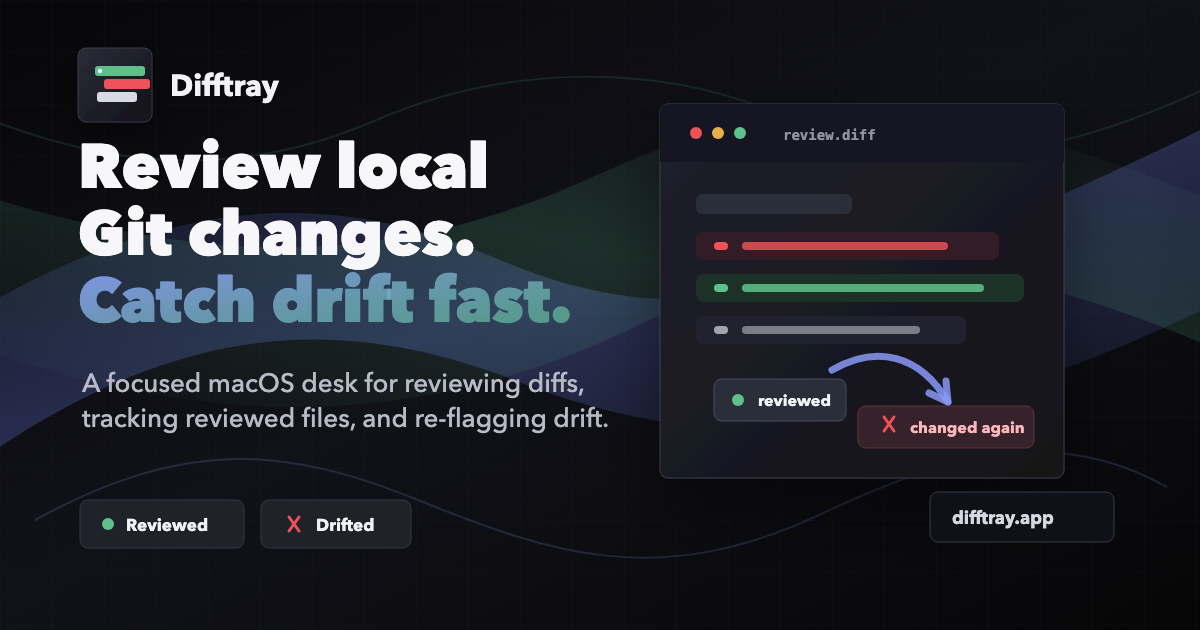
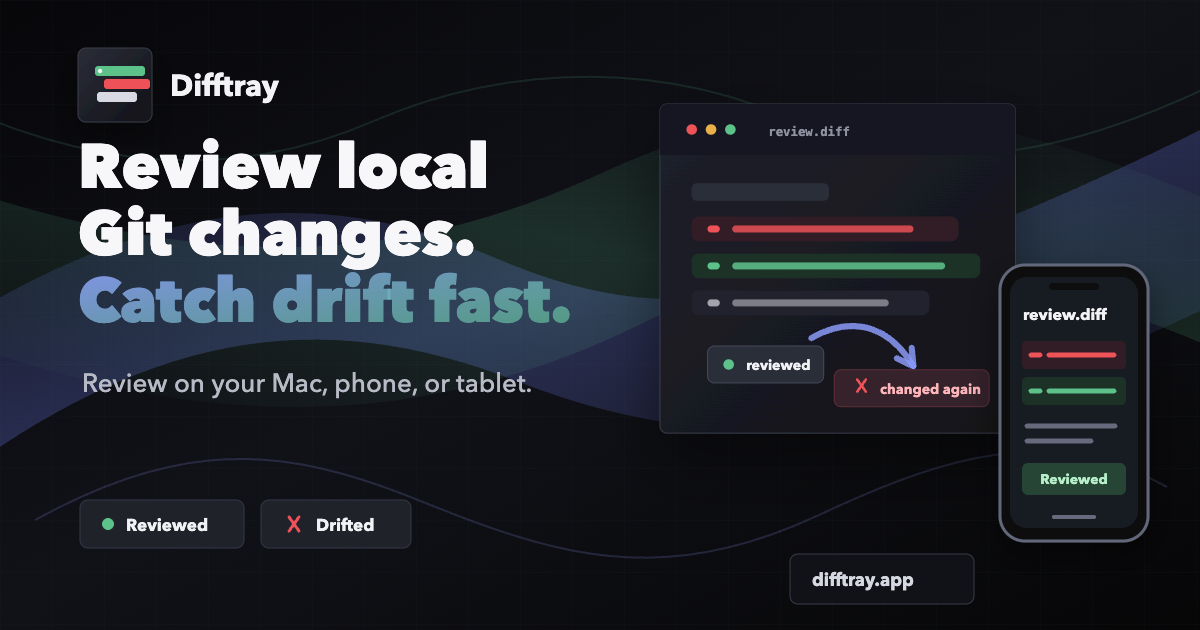
Update website messaging and social preview for mobile review

diff --git a/site/index.html b/site/index.html
@@ -3,8 +3,8 @@
 <head>
 <meta charset="UTF-8">
 <meta name="viewport" content="width=device-width, initial-scale=1.0">
-<title>Difftray — Local-first Git review for macOS</title>
-<meta name="description" content="Local-first macOS app for reviewing Git changes. Track what you reviewed, get re-flagged on drift, and carry the review to your phone with the companion app.">
+<title>Difftray — Code review on Mac, iOS &amp; Android</title>
+<meta name="description" content="Review local Git changes on your Mac, iPhone, iPad, or Android device. Track reviewed files, catch drift, and send review notes back to your agent.">
 <link rel="canonical" href="https://difftray.app/">
 
 <!-- Favicons (relative paths — work on github.io/<repo>/ project pages and custom domains alike) -->
@@ -19,18 +19,18 @@
 <meta property="og:type" content="website">
 <meta property="og:site_name" content="Difftray">
 <meta property="og:locale" content="en_US">
-<meta property="og:title" content="Difftray — Local-first Git review for macOS">
-<meta property="og:description" content="Know what you reviewed. Get re-flagged when a diff drifts. A focused review desk for local Git changes — with a mobile companion for your phone.">
+<meta property="og:title" content="Difftray — Code review on Mac, iOS &amp; Android">
+<meta property="og:description" content="Review on your Mac or paired mobile device. Track reviewed files, catch drift, and turn comments into a prompt for your agent.">
 <meta property="og:url" content="https://difftray.app/">
-<meta property="og:image" content="https://difftray.app/assets/social-card.png">
+<meta property="og:image" content="https://difftray.app/assets/social-card.png?v=mac-mobile-1">
 <meta property="og:image:width" content="1200">
 <meta property="og:image:height" content="630">
-<meta property="og:image:alt" content="Difftray: review local Git changes and catch drift fast.">
+<meta property="og:image:alt" content="Difftray: review local Git changes on Mac, iOS, and Android. Catch drift fast.">
 <meta name="twitter:card" content="summary_large_image">
-<meta name="twitter:title" content="Difftray — Local-first Git review for macOS">
-<meta name="twitter:description" content="Know what you reviewed. Get re-flagged when a diff drifts. Now with a mobile companion for your phone.">
-<meta name="twitter:image" content="https://difftray.app/assets/social-card.png">
-<meta name="twitter:image:alt" content="Difftray: review local Git changes and catch drift fast.">
+<meta name="twitter:title" content="Difftray — Code review on Mac, iOS &amp; Android">
+<meta name="twitter:description" content="Local code review on Mac, with an iOS and Android companion. Track reviewed files, catch drift, and turn comments into an agent prompt.">
+<meta name="twitter:image" content="https://difftray.app/assets/social-card.png?v=mac-mobile-1">
+<meta name="twitter:image:alt" content="Difftray: review local Git changes on Mac, iOS, and Android. Catch drift fast.">
 
 <script type="application/ld+json">
 {
@@ -45,7 +45,7 @@
       "description": "Local-first macOS app for reviewing Git changes across projects. Track what you reviewed, get re-flagged on drift, and export notes as prompts.",
       "url": "https://difftray.app/",
       "downloadUrl": "https://github.com/prof18/difftray/releases/latest/download/Difftray-arm64.dmg",
-      "image": "https://difftray.app/assets/social-card.png",
+      "image": "https://difftray.app/assets/social-card.png?v=mac-mobile-1",
       "offers": {
         "@type": "Offer",
         "price": "0",
@@ -65,7 +65,7 @@
       "operatingSystem": "Android, iOS",
       "description": "Mobile companion for Difftray. Pairs with the macOS app over Wi-Fi or Tailscale to browse changed files, read diffs, mark them reviewed, leave line-level comments, and copy a ready-made prompt back to your agent.",
       "url": "https://difftray.app/#companion",
-      "downloadUrl": "https://play.google.com/store/apps/details?id=com.prof18.difftray.companion",
+      "downloadUrl": ["https://apps.apple.com/app/id6789255782", "https://play.google.com/store/apps/details?id=com.prof18.difftray.companion"],
       "isPartOf": { "@id": "https://difftray.app/#app" },
       "offers": {
         "@type": "Offer",
@@ -211,7 +211,7 @@ img{display:block;max-width:100%}
   padding:6px 13px 6px 8px;border-radius:999px;font-size:13px;color:var(--text-2);
   font-weight:500;margin-bottom:30px;
 }
-.badge-pill .tag{font-family:var(--mono);font-size:11px;font-weight:600;color:var(--accent);background:var(--accent-soft);border-radius:999px;padding:2px 9px}
+.badge-pill .tag{flex-shrink:0;white-space:nowrap;font-family:var(--mono);font-size:11px;font-weight:600;color:var(--accent);background:var(--accent-soft);border-radius:999px;padding:2px 9px}
 h1{
   font-size:clamp(38px,6.4vw,72px);line-height:1.02;letter-spacing:-.035em;font-weight:600;
   max-width:16ch;margin:0 auto;text-wrap:balance;
@@ -534,9 +534,9 @@ footer{border-top:1px solid var(--border-soft);padding:46px 0 60px}
   <div class="hero-glow"></div>
   <div class="hero-grid"></div>
   <div class="wrap">
-    <span class="badge-pill"><span class="tag">macOS</span> A focused review desk for local Git changes</span>
+    <span class="badge-pill"><span class="tag">Mac + mobile</span> A focused review desk for local Git changes</span>
     <h1>Know what you reviewed.<br>Get re-flagged when it <span class="em">drifts</span>.</h1>
-    <p class="sub">Difftray is a local-first desktop app for reviewing Git changes across your projects. Mark a file reviewed — and the moment its diff changes underneath you, Difftray quietly flips it back so you never trust a stale pass.</p>
+    <p class="sub">Review local Git changes on your Mac, or pair Difftray Companion to keep reviewing on iOS and Android. Mark a file reviewed — when its diff changes, Difftray flags it for another look.</p>
     <div class="cta-row">
       <a class="btn btn-primary btn-lg" href="https://github.com/prof18/difftray/releases/latest/download/Difftray-arm64.dmg" rel="noopener">
         <svg width="17" height="17" viewBox="0 0 24 24" fill="currentColor"><path d="M16.36 1.43c.05 1-.34 1.97-.94 2.66-.64.74-1.69 1.31-2.71 1.23-.12-.97.37-1.98.93-2.61.64-.72 1.74-1.26 2.72-1.28zM18.9 8.36c-.06.04-1.84 1.06-1.82 3.18.02 2.54 2.22 3.38 2.25 3.39-.02.07-.35 1.21-1.17 2.39-.7 1.02-1.43 2.03-2.58 2.05-1.12.02-1.49-.66-2.78-.66-1.29 0-1.69.64-2.76.68-1.1.04-1.95-1.1-2.66-2.12-1.45-2.1-2.57-5.93-1.07-8.52.74-1.29 2.07-2.1 3.5-2.12 1.09-.02 2.11.73 2.78.73.66 0 1.91-.9 3.21-.77.55.02 2.09.22 3.08 1.68z"/></svg>
@@ -545,11 +545,11 @@ footer{border-top:1px solid var(--border-soft);padding:46px 0 60px}
     </div>
     <p class="cta-alt"><a href="https://github.com/prof18/difftray/releases/latest/download/Difftray-x64.dmg" rel="noopener">Download for Intel Mac</a></p>
     <div class="cta-meta">
-      <span>Runs entirely on your machine</span>
+      <span>Local repositories · No cloud backend</span>
     </div>
     <a class="hero-companion" href="#companion">
       <svg width="14" height="14" viewBox="0 0 24 24" fill="none" stroke="currentColor" stroke-width="2"><rect x="7" y="2" width="10" height="20" rx="2.5"/><path d="M11 18h2"/></svg>
-      <span>New — review from your phone with the <b>iOS &amp; Android companion</b></span>
+      <span>Review from your phone with the <b>iOS &amp; Android companion</b></span>
       <svg width="14" height="14" viewBox="0 0 24 24" fill="none" stroke="currentColor" stroke-width="2" stroke-linecap="round"><path d="M5 12h14M13 6l6 6-6 6"/></svg>
     </a>
   </div>
@@ -619,7 +619,7 @@ footer{border-top:1px solid var(--border-soft);padding:46px 0 60px}
       <div class="feat reveal">
         <div class="feat-ic"><svg width="20" height="20" viewBox="0 0 24 24" fill="none" stroke="currentColor" stroke-width="2"><rect x="3" y="4" width="18" height="16" rx="2"/><path d="M3 9h18M8 4v16"/></svg></div>
         <h3>Many repos, one desk</h3>
-        <p>Keep several local repositories open side by side. See which projects still need attention without switching context or losing your place.</p>
+        <p>Find repositories with Quick Open, open linked Git worktrees, and keep several projects side by side. Browse the same repository catalog from your paired mobile device.</p>
       </div>
       <div class="feat reveal">
         <div class="feat-ic"><svg width="20" height="20" viewBox="0 0 24 24" fill="none" stroke="currentColor" stroke-width="2"><rect x="3" y="3" width="8" height="18" rx="1.5"/><rect x="13" y="3" width="8" height="18" rx="1.5"/></svg></div>
@@ -686,7 +686,7 @@ footer{border-top:1px solid var(--border-soft);padding:46px 0 60px}
             <span class="sb-txt"><span class="sb-sm">Get it on</span><span class="sb-lg">Google Play</span></span>
           </a>
         </div>
-        <div class="comp-meta"><span>iOS &amp; Android</span><span class="dot"></span><span>Free companion</span><span class="dot"></span><span>Pairs over Wi-Fi or Tailscale</span></div>
+        <div class="comp-meta"><span>iOS &amp; Android</span><span class="dot"></span><span>Pairs over Wi-Fi or Tailscale</span></div>
       </div>
       <div class="comp-phones reveal">
         <img class="ph-side ph-a" src="assets/companion-comments.png" alt="Companion comments and generated-prompt screen" width="780" height="1688" loading="lazy" decoding="async">
@@ -698,8 +698,8 @@ footer{border-top:1px solid var(--border-soft);padding:46px 0 60px}
     <div class="comp-how reveal">
       <div class="comp-how-head">
         <span class="eyebrow" style="justify-content:center">Pair in under a minute</span>
-        <h3>Your Mac does the reviewing. Your phone drives it.</h3>
-        <p>The Mac stays the source of truth — Companion connects to it and reads the same local changes. Nothing leaves your machine.</p>
+        <h3>Your repos stay on your Mac. Review from either screen.</h3>
+        <p>Your Mac stays the source of truth and shares review data with your paired device over Wi-Fi or Tailscale, without a cloud backend. Keep Difftray running on a reachable Mac while you review.</p>
       </div>
       <div class="comp-steps">
         <div class="comp-step-list">
@@ -730,7 +730,7 @@ footer{border-top:1px solid var(--border-soft);padding:46px 0 60px}
     <div class="final-card reveal">
       <svg class="logo-tile" viewBox="0 0 1024 1024"><use href="#dt-mark"/></svg>
       <h2>Stop losing track of your own reviews.</h2>
-      <p>Difftray is a free download for macOS. Open a repo and start reviewing in seconds.</p>
+      <p>Start with the free Mac app, then pair the iOS or Android companion to review from your phone or tablet.</p>
       <div class="cta-row">
         <a class="btn btn-primary btn-lg" href="https://github.com/prof18/difftray/releases/latest/download/Difftray-arm64.dmg" rel="noopener">
           <svg width="17" height="17" viewBox="0 0 24 24" fill="currentColor"><path d="M16.36 1.43c.05 1-.34 1.97-.94 2.66-.64.74-1.69 1.31-2.71 1.23-.12-.97.37-1.98.93-2.61.64-.72 1.74-1.26 2.72-1.28zM18.9 8.36c-.06.04-1.84 1.06-1.82 3.18.02 2.54 2.22 3.38 2.25 3.39-.02.07-.35 1.21-1.17 2.39-.7 1.02-1.43 2.03-2.58 2.05-1.12.02-1.49-.66-2.78-.66-1.29 0-1.69.64-2.76.68-1.1.04-1.95-1.1-2.66-2.12-1.45-2.1-2.57-5.93-1.07-8.52.74-1.29 2.07-2.1 3.5-2.12 1.09-.02 2.11.73 2.78.73.66 0 1.91-.9 3.21-.77.55.02 2.09.22 3.08 1.68z"/></svg>
